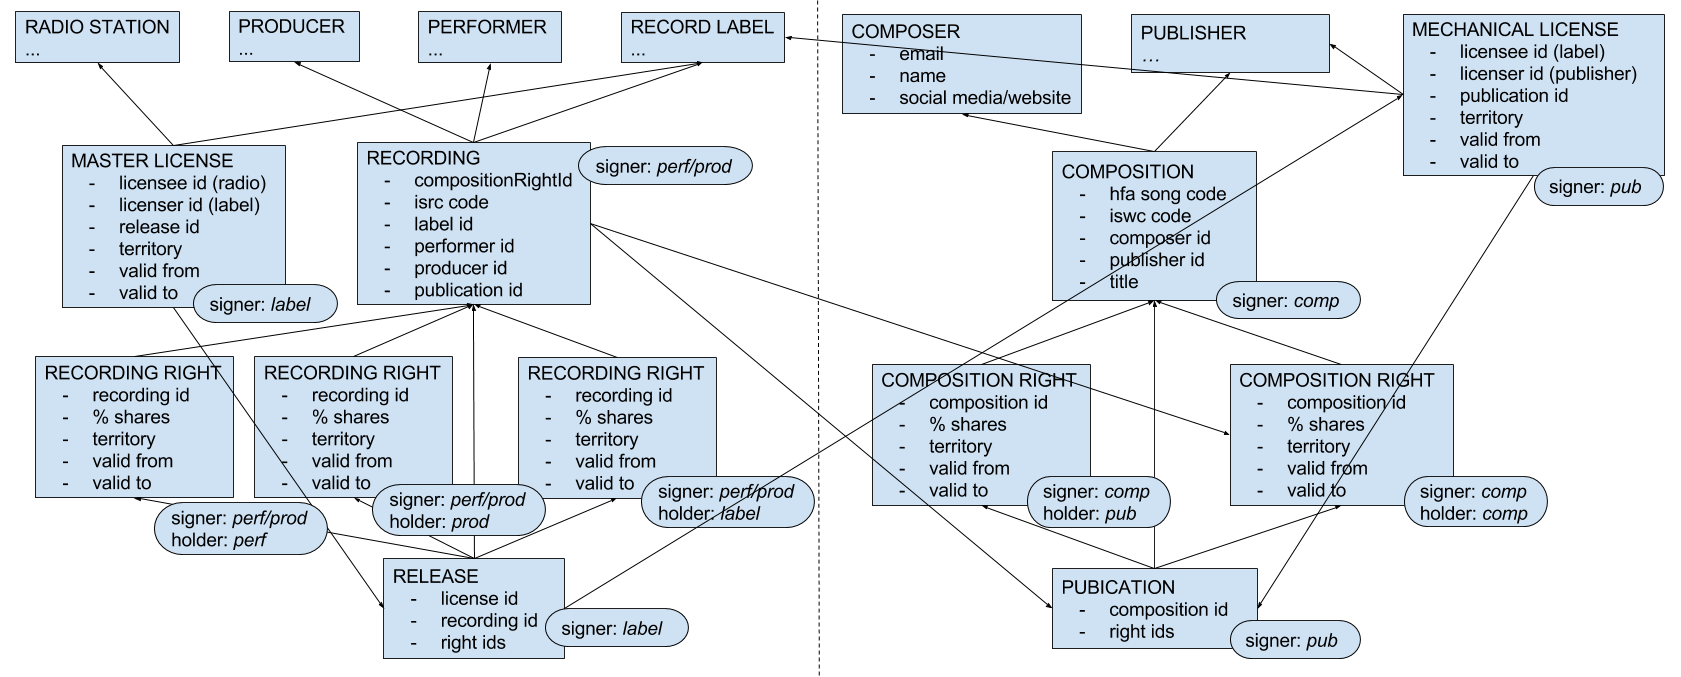
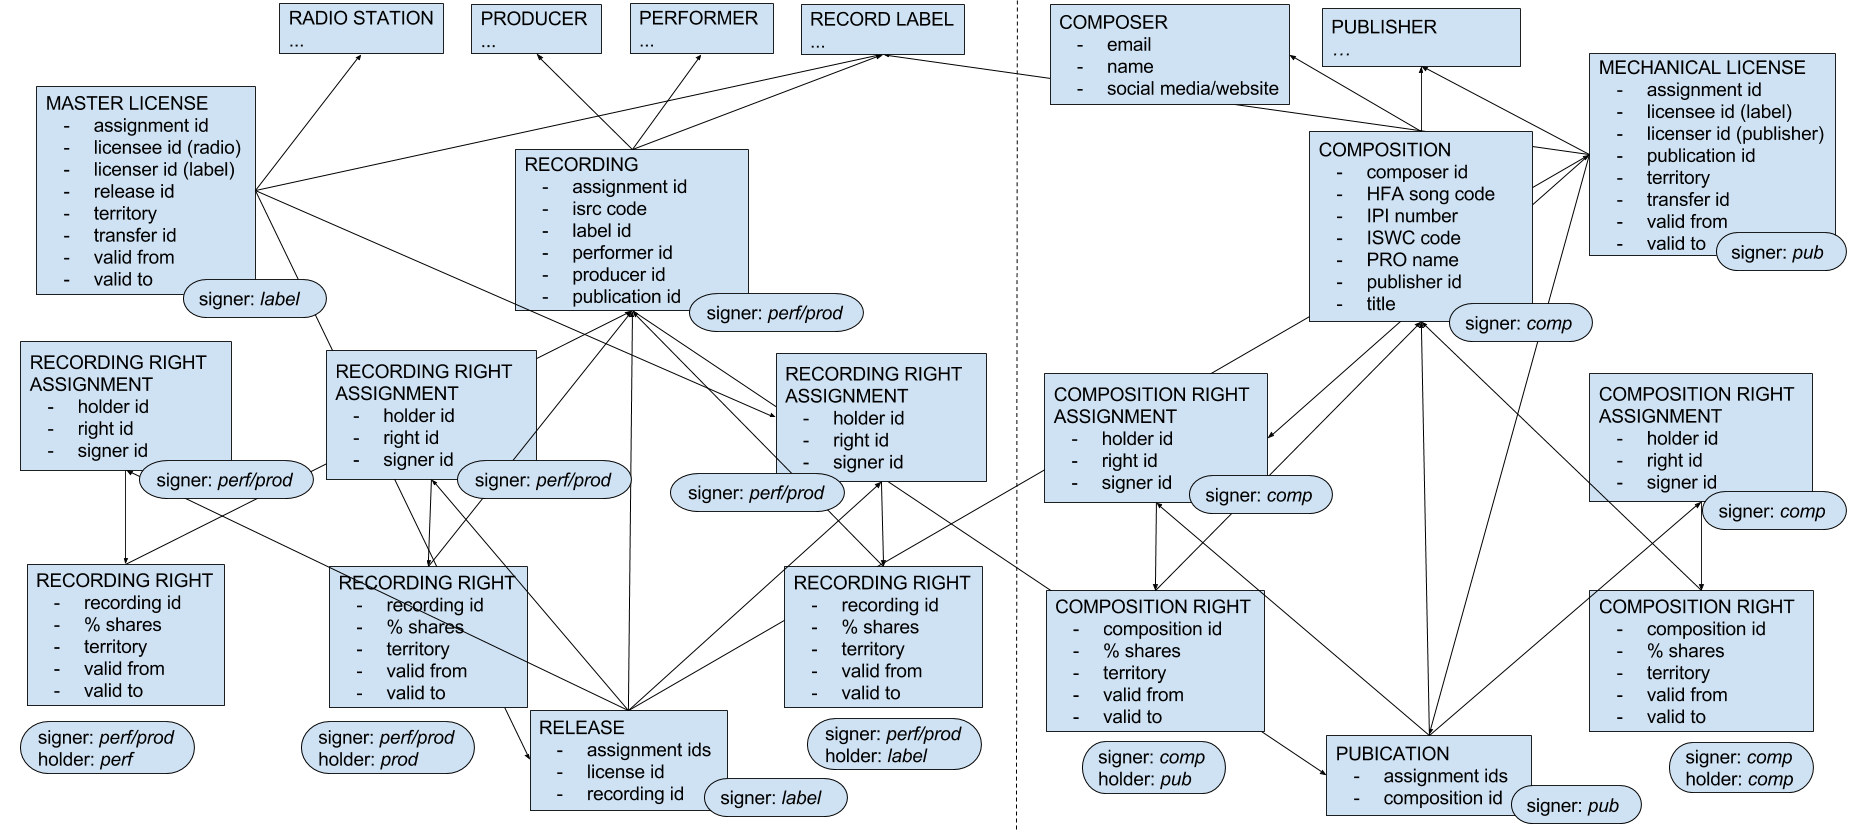
updated linked data image

diff --git a/spec/doc.md b/spec/doc.md
@@ -53,11 +53,11 @@ A composition represents the written music and lyrics of a musical work.
 
 * **Required**
 
-`publisherId=[hexadecimal]` | `title=[alphanumeric]`
+`composerId,publisherId=[hexadecimal]` | `title=[alphanumeric]`
 
 * **Optional**
 
-`hfa=[HFA_code]` | `ipi=[IPI_number]` | `iswc=[ISWC_code]` | `pro=[alphanumeric]`
+`hfa=[HFA_code]` | `ipi=[IPI_number]` | `iswc=[ISWC_code]` | `pro=[PRO_name]`
 
 Example: 
 ```javascript
@@ -174,12 +174,15 @@ A mechanical license, issued by a composition right-holder to a licensee, permit
 
 * **Required**
 
-	`assignmentId,licenseeId,licenserId,publicationId=[hexadecimal]` | `validFrom,validTo=[yyyy-mm-dd]`
+	`licenseeId,licenserId,publicationId=[hexadecimal]` | `validFrom,validTo=[yyyy-mm-dd]`
     
 * **Optional**
 
-	`territory=[country_codes]`
+	`assignmentId=[hexadecimal]` | `territory=[country_codes]` | `transferId=[hexadecimal]`
 
+* **Notes**
+    
+    Mechanical license must contain assignmentId or transferId
 
 Example:
 
@@ -363,11 +366,15 @@ A master license, issued by a recording right-holder to a licensee, permits use 
 
 * **Required**
 
-	`assignmentId,licenseeId,licenserId,releaseId=[hexadecimal]` | `validFrom,validTo=[yyyy-mm-dd]`
+	`licenseeId,licenserId,releaseId=[hexadecimal]` | `validFrom,validTo=[yyyy-mm-dd]`
     
 * **Optional**
 
-	`territory=[country_codes]`
+	`assignmentId=[hexadecimal]` | `territory=[country_codes]` | `transferId=[hexadecimal]`
+
+* **Notes**
+    
+    Master license must contain assignmentId or transferId
 
 Example:
 ```javascript
